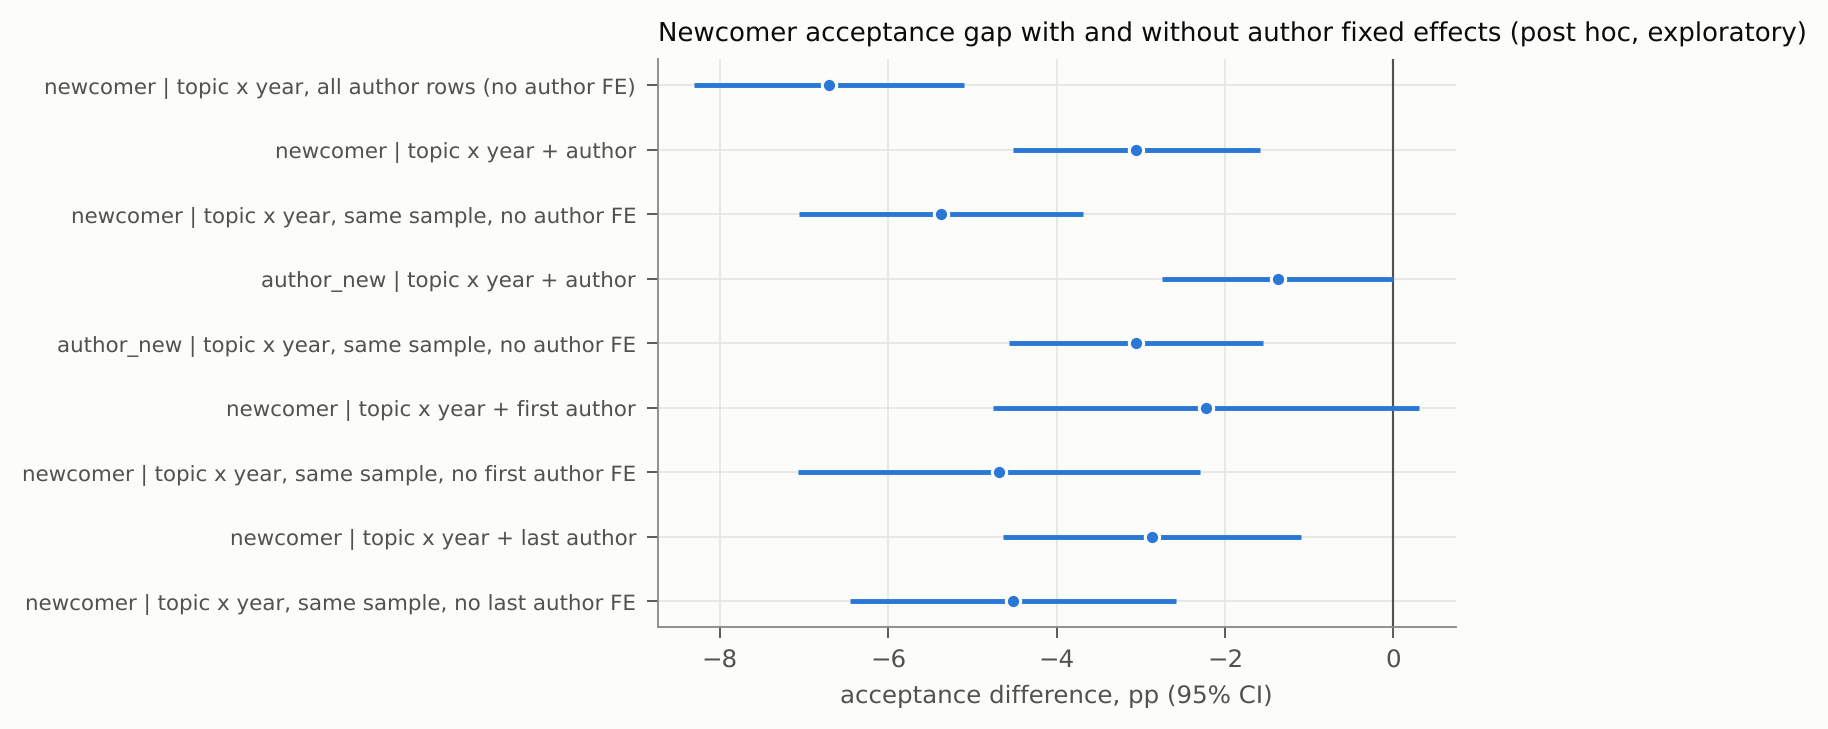
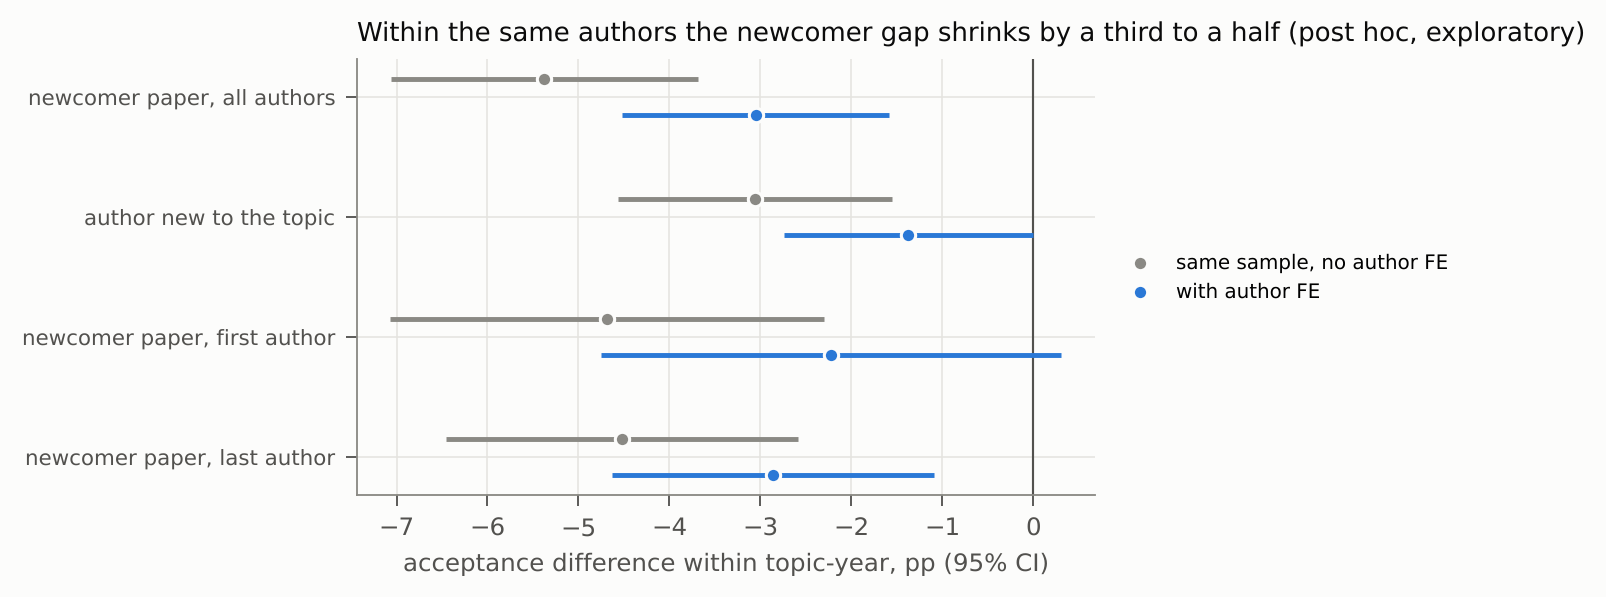
PH3 paired figure (redrawn from saved estimates); RESULTS.md: PH3 and neutral 'newcomer gap' wording
Claude-Session: https://claude.ai/code/session_014Gxddxw4AapynGRQeyNs87

diff --git a/research/fashion/posthoc.py b/research/fashion/posthoc.py
@@ -476,21 +476,30 @@ def ph3(k: pd.DataFrame) -> None:
 
 def plot_ph3(res: pd.DataFrame) -> None:
     plt = figures.plt
-    fig, ax = plt.subplots(figsize=(6.6, 3.2), constrained_layout=True)
-    y = np.arange(len(res))[::-1]
+    names = {"M1": "newcomer paper, all authors", "M2": "author new to the topic", "M3": "newcomer paper, first author",
+             "M4": "newcomer paper, last author"}
+    fig, ax = plt.subplots(figsize=(6.6, 2.6), constrained_layout=True)
     ax.axvline(0, color=figures.INK2, lw=0.7)
-    ax.hlines(y, res.ci95_lo * 100, res.ci95_hi * 100, color=figures.SERIES[0], lw=1.6)
-    ax.scatter(res.coef * 100, y, s=22, color=figures.SERIES[0], edgecolor=figures.SURFACE, linewidth=1, zorder=3)
-    ax.set_yticks(y, res.label, fontsize=7)
-    ax.set_xlabel("acceptance difference, pp (95% CI)")
-    ax.set_title("Newcomer acceptance gap with and without author fixed effects (post hoc, exploratory)", loc="left")
+    for i, (m, name) in enumerate(names.items()):
+        y = len(names) - 1 - i
+        for suffix, dy, colour, lab in [("-base", 0.15, figures.MUTED, "same sample, no author FE"),
+                                        ("", -0.15, figures.SERIES[0], "with author FE")]:
+            r = res[res.model == m + suffix].iloc[0]
+            ax.hlines(y + dy, r.ci95_lo * 100, r.ci95_hi * 100, color=colour, lw=1.6)
+            ax.scatter(r.coef * 100, y + dy, s=22, color=colour, edgecolor=figures.SURFACE, linewidth=1, zorder=3,
+                       label=lab if i == 0 else None)
+    ax.set_yticks(range(len(names))[::-1], list(names.values()), fontsize=7)
+    ax.set_xlabel("acceptance difference within topic-year, pp (95% CI)")
+    ax.set_title("Within the same authors the newcomer gap shrinks by a third to a half (post hoc, exploratory)",
+                 loc="left")
+    ax.legend(loc="center left", bbox_to_anchor=(1.01, 0.5), fontsize=6.5)
     figures.save(fig, "PH3_author_fe")
 
 
 def main() -> None:
     which = sys.argv[1] if len(sys.argv) > 1 else ""
-    if which == "plot2":                                   # redraw from the saved estimates; reads no outcome
-        plot_ph2(pd.read_csv(OUT / "ph2_estimates.csv"))
+    if which in ("plot2", "plot3"):                        # redraw from the saved estimates; reads no outcome
+        plot_ph2(pd.read_csv(OUT / "ph2_estimates.csv")) if which == "plot2" else plot_ph3(pd.read_csv(OUT / "ph3_estimates.csv"))
         return
     if which not in ("ph1", "ph2", "ph3"):
         raise SystemExit("usage: posthoc.py ph1|ph2|ph3|plot2")

diff --git a/research/fashion/RESULTS.md b/research/fashion/RESULTS.md
@@ -318,12 +318,12 @@ only ranks the evidence.
 - **Topic choice.**
   - Newcomer papers in more mature topics are accepted less often: −2.8 pp per log unit (Holm p = 0.02, A1).
   - Hot topics bring no advantage (+1.2 pp, n.s.).
-- **The newcomer discount is present in every subgroup** (B, within topic × year). It is −10.2 pp overall, and
+- **The newcomer acceptance gap is present in every subgroup** (B, within topic × year). It is −10.2 pp overall, and
   ranges from:
   - −5.1 pp for theory papers and −6.4 pp for teams of 7 or more (the smallest);
   - to −14.6 pp for dataset/benchmark papers and −11.6 pp in the most mature topics (the largest).
 
-  Team size therefore accounts for some of the discount, not all of it. Newcomer dataset/benchmark papers are rarer
+  Team size therefore accounts for some of the gap, not all of it. Newcomer dataset/benchmark papers are rarer
   (H2c), and when written they show the largest gap.
 - **By area (C):**
   - The within-topic-year newcomer gap is negative in all 20 coarse areas, from −3.8 to −20.8 pp.
@@ -332,7 +332,7 @@ only ranks the evidence.
     −9 pp).
   - No area or area × year cell survives Holm, so these are descriptive only.
 - **Reading.** Newcomer papers that are theory papers, come from large teams or build on foundation models are
-  accepted more often. The newcomer discount is smallest for theory papers and large teams.
+  accepted more often. The newcomer gap is smallest for theory papers and large teams.
   - Selection is likely: newcomer theory papers may come from established researchers in other fields, and large
     teams bring resources and seniority.
   - So these are not recommendations about what a newcomer should do.
@@ -376,6 +376,32 @@ only ranks the evidence.
     disadvantaged.
 - **Reading.** Team size also stands for compute, data, engineering and seniority, which are plausibly what large
   benchmark, generation and LLM work needs. These are associations, not advice to add authors.
+
+## Post hoc: is the newcomer gap about who the authors are? (PH3, exploratory)
+
+`posthoc.py ph3`, declared before it was run; outputs in `output/posthoc/ph3_*`, figure `PH3_author_fe.png`. ICLR is
+double-blind, so the gap need not reflect reviewers' treatment of newcomers: newcomer papers may simply be weaker. PH3
+asks how much of the gap is about the authors.
+- **Data:** one row per paper and author ID (160,222 rows; each paper weighs 1 in total).
+- **Fixed effects:** topic × year and author.
+- **Controls:** class, FM, team size and the author's earlier ICLR submissions.
+- **Identification:** 15,579 authors have both newcomer and incumbent papers.
+
+| | Without author FE | With author FE (same sample) |
+|---|---|---|
+| Newcomer paper, all authors | −5.4 pp (−7.1, −3.7) | −3.1 pp (−4.5, −1.6) |
+| The author is new to the topic | −3.1 pp | −1.4 pp (−2.7, −0.0) |
+| Newcomer paper, first-author FE | −4.7 pp | −2.2 pp (−4.8, +0.3) |
+| Newcomer paper, last-author FE | −4.5 pp | −2.9 pp (−4.6, −1.1) |
+
+- **Most of the gap is about who writes newcomer papers.**
+  - The −10.2 pp gap (PH1) falls to about −6.7 pp once team size and the authors' ICLR experience are controlled.
+  - Within the same authors it falls to about −3 pp.
+  - The same person entering a topic new to them is accepted about 1.4 pp less often.
+- **What remains is small and need not be reviewer bias.** Less familiarity with a topic's methods, baselines and
+  framing can make the same person's paper weaker. The data cannot separate the two.
+- **Review scores could separate the reviewer stage from the decision stage,** but they are not in this repository
+  (see the post-run record).
 
 ## Limitations
 
